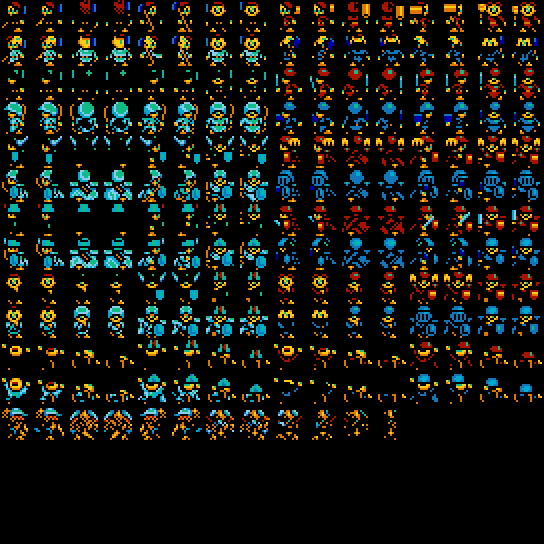
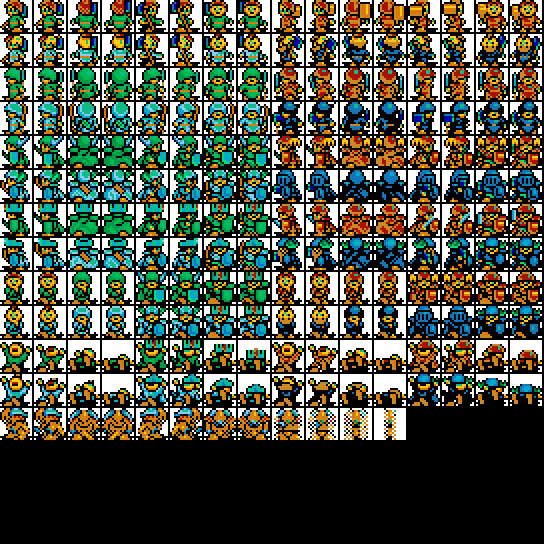
.MAP の構造を確定 — 48x48 セル + 地形セット番号
展開後 2306 バイトの中身が割れた。

* 行幅 48 は、候補幅ごとに行間の平均絶対差を測って最小のものを取って決めた
  （48 が 12.6、次点 49 が 17.5、96 が第 2 高調波）
* 末尾の uint16 は地形セット番号で、52 本すべてが 10/20/30/40/50 のどれか。
  ディスク上の B_010*/B_020*/B_030*/B_040*/B_050* にちょうど対応するので、
  マップは自分のタイルセットを自分で持っている
* セル値はバンク内のタイル番号。S/M/L が 8x8/16x16/32x32 で 3 段ズーム
* tools/map.py がバンクを自動選択して PNG に描く

パレットは 0..9 を WAKU から実測（WAKU は製品版と同じ絵なので流用できる）。
10..14 は地形タイルにしか出ず、手元のマップ画面 ss3.jpg が製品版で
別マップのため実測できないので、理由を書いた上で仮の色を入れてある。

Changed region(s): [[0.0, 0.0, 1.0, 0.8125]]

diff --git a/tools/map.py b/tools/map.py
@@ -1,0 +1,106 @@
+"""Draw a `.MAP` as a PNG by looking every cell up in a `.CH4` tile bank.
+
+    python tools/map.py disk/B_000.MAP tmp/map.png              # 8x8
+    python tools/map.py disk/B_000.MAP tmp/map.png --tile 16    # and 16x16
+    python tools/map.py disk/B_000.MAP tmp/map.png --bank disk/B_020S.CH4
+
+A `.MAP` decompresses to 2306 bytes.  The grid is **48 x 48 cells, one byte
+each**, plus two bytes over - found by scanning every candidate row stride and
+taking the one that minimises the mean absolute difference between a byte and
+the byte one stride later: 48 wins by a wide margin (12.6 against 17.5 for its
+nearest rival) and 96 shows up as its second harmonic, which is what a real
+image does and a coincidence does not.
+
+The two spare bytes are at the **end**, and they are a `uint16` naming the
+terrain set: every one of the 52 maps holds 10, 20, 30, 40 or 50, and those are
+exactly the five `B_010* B_020* B_030* B_040* B_050*` banks on the disk
+(12 + 10 + 10 + 10 + 10 = 52).  So a map carries its own tileset and nothing
+else has to be looked up.
+
+Cell value = tile number in the bank.  `B_nnnS/M/L` are the same terrain set at
+8x8 / 16x16 / 32x32, so the same map draws at three zooms - which is how the
+game does its overview and its close-up.
+"""
+import os
+import sys
+
+import ch4
+
+W = H = 48
+
+
+def cells(path):
+    data = ch4.bzcat(path)
+    if len(data) < W * H + 2:
+        raise SystemExit('%s: %d bytes, need at least %d' %
+                         (path, len(data), W * H + 2))
+    tail = data[W * H] | (data[W * H + 1] << 8)
+    return data[:W * H], tail
+
+
+def bank_for(mp, tail, tw):
+    """The map's own terrain set, as B_0<n>0<size>.CH4 next to the map."""
+    size = {8: 'S', 16: 'M', 32: 'L'}[tw]
+    return os.path.join(os.path.dirname(mp), 'B_%03d%s.CH4' % (tail, size))
+
+
+def bank(path, tw, th):
+    """Split a .CH4 into per-tile index bitmaps."""
+    data = ch4.bzcat(path)
+    stride = tw // 8
+    per = stride * th * 4
+    out = []
+    for i in range(len(data) // per):
+        base = i * per
+        pl = [data[base + p * stride * th: base + (p + 1) * stride * th]
+              for p in range(4)]
+        out.append(ch4.planes_to_indices(pl, tw, th))
+    return out
+
+
+def draw(cell, tiles, tw, th):
+    rows = [[0] * (W * tw) for _ in range(H * th)]
+    missing = set()
+    for cy in range(H):
+        for cx in range(W):
+            n = cell[cy * W + cx]
+            if n >= len(tiles):
+                missing.add(n)
+                continue
+            t = tiles[n]
+            for y in range(th):
+                dst = rows[cy * th + y]
+                src = t[y]
+                for x in range(tw):
+                    dst[cx * tw + x] = src[x]
+    return rows, missing
+
+
+def main():
+    mp, dst = sys.argv[1], sys.argv[2]
+    tw = th = 8
+    bk = None
+    for i, a in enumerate(sys.argv):
+        if a == '--tile':
+            tw = th = int(sys.argv[i + 1])
+        elif a == '--bank':
+            bk = sys.argv[i + 1]
+
+    cell, tail = cells(mp)
+    if bk is None:
+        bk = bank_for(mp, tail, tw)
+    tiles = bank(bk, tw, th)
+    rows, missing = draw(cell, tiles, tw, th)
+    ch4.png(dst, W * tw, H * th, rows, ch4.PAL_GAME)
+    print('%s x %s -> %s  %dx%d cells of %dx%d, %d tiles in the bank, '
+          'terrain set %d%s' %
+          (os.path.basename(mp), os.path.basename(bk), dst, W, H, tw, th,
+           len(tiles), tail,
+           ', %d cell values past the bank: %s' %
+           (len(missing), ' '.join('%02x' % m for m in sorted(missing)))
+           if missing else ''))
+
+
+if __name__ == '__main__':
+    sys.path.insert(0, os.path.dirname(os.path.abspath(__file__)))
+    main()

diff --git a/tools/ch4.py b/tools/ch4.py
@@ -46,12 +46,26 @@ PAL_TITLE = _pal({
     4: (4, 7, 7), 5: (7, 10, 10), 6: (10, 12, 12),
 })
 
-# From WAKU (the in-game frame), which uses 0..9 and 15.  8 is the orange of the
-# frame, 6 its yellow highlight, 1 the panel blue.
+# 0..9 from WAKU (the in-game frame), which is the only screen that uses just
+# frame art: 8 is the orange of the frame, 6 its yellow highlight, 1 the panel
+# blue.  WAKU is byte-identical between the demo and the retail game, so these
+# carry over.
+#
+# 10..14 are **provisional**, not measured.  They never appear in WAKU - only in
+# the terrain tiles - and the only screenshot of a map to hand (ss3.jpg) is from
+# the *retail* game, whose maps and character art differ from the demo's, so its
+# map window cannot be aligned against anything on this disk.  What the tiles do
+# say is which indices belong together: the grass cell (value 0x00, 33% of every
+# cell on the disk) is drawn from indices 4, 12, 13 and 14 in that order of
+# area, and the mountain cell (0x60) pairs index 10 with the frame orange.  So
+# these are a green ramp plus two browns, picked to make development renders
+# legible, and they will be replaced the moment the real tables turn up.
 PAL_GAME = _pal({
     0: (0, 0, 0), 1: (0, 0, 10), 2: (10, 1, 0), 3: (8, 12, 14),
-    5: (0, 10, 12), 6: (15, 12, 1), 7: (1, 11, 8), 8: (13, 7, 0),
-    9: (1, 7, 11),
+    4: (0, 11, 5), 5: (0, 10, 12), 6: (15, 12, 1), 7: (1, 11, 8),
+    8: (13, 7, 0), 9: (1, 7, 11),
+    10: (12, 8, 2), 11: (7, 4, 1), 12: (0, 9, 4), 13: (0, 13, 7),
+    14: (0, 7, 3), 15: (15, 15, 15),
 })
 
 DEFAULT_PAL = PAL_GAME

diff --git a/RESUME.md b/RESUME.md
@@ -170,6 +170,27 @@ Windows 版のために書いた `bz.c` がそのまま通る。**実測**:
   `C_nnnM` `C_nnnL1..L4` がキャラクター
 * タイトルの星空は `DS7TTL` に入っていない。**コードが描いている**
 
+## `.MAP` — 解読済み
+
+展開後 2306 バイト = **48 × 48 セル（1 バイト/セル）+ `uint16`**。
+
+* 行幅 48 は、候補幅ごとに「あるバイトと 1 幅後のバイトの平均絶対差」を測って
+  最小のものを取って決めた。48 が 12.6、49 が 17.5、47 が 17.8、96 が
+  第 2 高調波として出る（本物の画像の挙動で、偶然ではこうならない）
+* 末尾の `uint16` は**地形セット番号**。52 本の内訳は
+  10 が 12 本、20/30/40/50 が各 10 本で、ディスク上の 5 組
+  `B_010* B_020* B_030* B_040* B_050*` にちょうど対応する。
+  **マップは自分のタイルセットを自分で持っている**
+* セル値 = バンク内のタイル番号。`B_nnnS/M/L` = 同じ地形セットの
+  8×8 / 16×16 / 32×32 なので、同じマップが 3 段のズームで描ける
+* セル値の統計（全 52 本）: `0x00` = 草地 33%、`0x01` 11.8%、`0x60` 4.0%、
+  `0x30` 3.7%。`0x30` 台が水面（タイルが index 1 の青と index 5 で構成される）、
+  `0x00` は index 4 / 12 / 13 / 14 で構成される草地
+
+`tools/map.py` がこれを絵にする。ss3.jpg の地図と照合しようとしたが、
+**ss3 は製品版の画面でマップもキャラクターも体験版とは別物**なので
+（一致率 78% 止まり）、パレット 10〜14 の実測には使えなかった。
+
 ## PROG.DAT の中身の地図（分かった分）
 
 | オフセット | 中身 |
@@ -191,7 +212,7 @@ Windows 版のために書いた `bz.c` がそのまま通る。**実測**:
 2. ~~ブートの仕組みとロード番地・セグメント~~ 済
 3. ~~グラフィックのフォーマット~~ 済
 4. ~~パレットの形式と番地~~ 済。**中身の出所は未解明**（実測値で暫定運用中）
-5. `.MAP` の構造を確定して地図を絵にする
+5. ~~`.MAP` の構造を確定して地図を絵にする~~ 済
 6. `PROG.BIN` のゲームロジック
 7. ネイティブ（Win32・640×400 8bpp DIB）→ WASM
 

diff --git a/README.md b/README.md
@@ -98,6 +98,32 @@ B, R, G**（ポート 0xae → 0xac → 0xaa）、値は `((byte & 0x0f) + 1) * 
 | ![frame](docs/frame.png) | `WAKU` — ゲーム画面の枠。index 8 がオレンジ、6 が黄、1 が青 |
 
 タイトルロゴは index 3 のエメラルドグリーン `R0 G8 B8`。
+index 10〜14 は `WAKU` に出てこず地形タイルにしか現れないので、
+まだ**仮の色**です（`tools/ch4.py` に理由を書いてあります）。
+
+## マップ
+
+`.MAP` は展開すると 2306 バイトで、**48 × 48 セル（1 セル 1 バイト）＋
+末尾の `uint16`** です。行幅 48 は、行間の平均差分が最小になる幅を総当たりで
+探して決めました（48 が 12.6、次点の 49 が 17.5、96 が第 2 高調波として出る）。
+
+末尾の `uint16` は**地形セット番号**で、52 本すべてが 10 / 20 / 30 / 40 / 50 の
+どれかを持ち、これがそのままディスク上の 5 組の
+`B_010* B_020* B_030* B_040* B_050*` に対応します（12+10+10+10+10 = 52）。
+つまりマップは自分のタイルセットを自分で持っています。
+
+セルの値はバンク内のタイル番号です。`B_nnnS/M/L` は同じ地形セットの
+8×8 / 16×16 / 32×32 なので、同じマップが 3 段のズームで描けます。
+全 52 本で一番多いセル値は `0x00` = 草地（全体の 33%）、`0x30` 台が水面です。
+
+```sh
+python tools/map.py disk/B_000.MAP docs/map.png            # 8x8、バンクは自動選択
+python tools/map.py disk/B_009.MAP tmp/m09.png --tile 16    # 16x16
+```
+
+| | |
+|---|---|
+| ![map](docs/map.png) | `B_000.MAP` を自前の地形セット 10 で描いたもの |
 
 ## ツール
 
